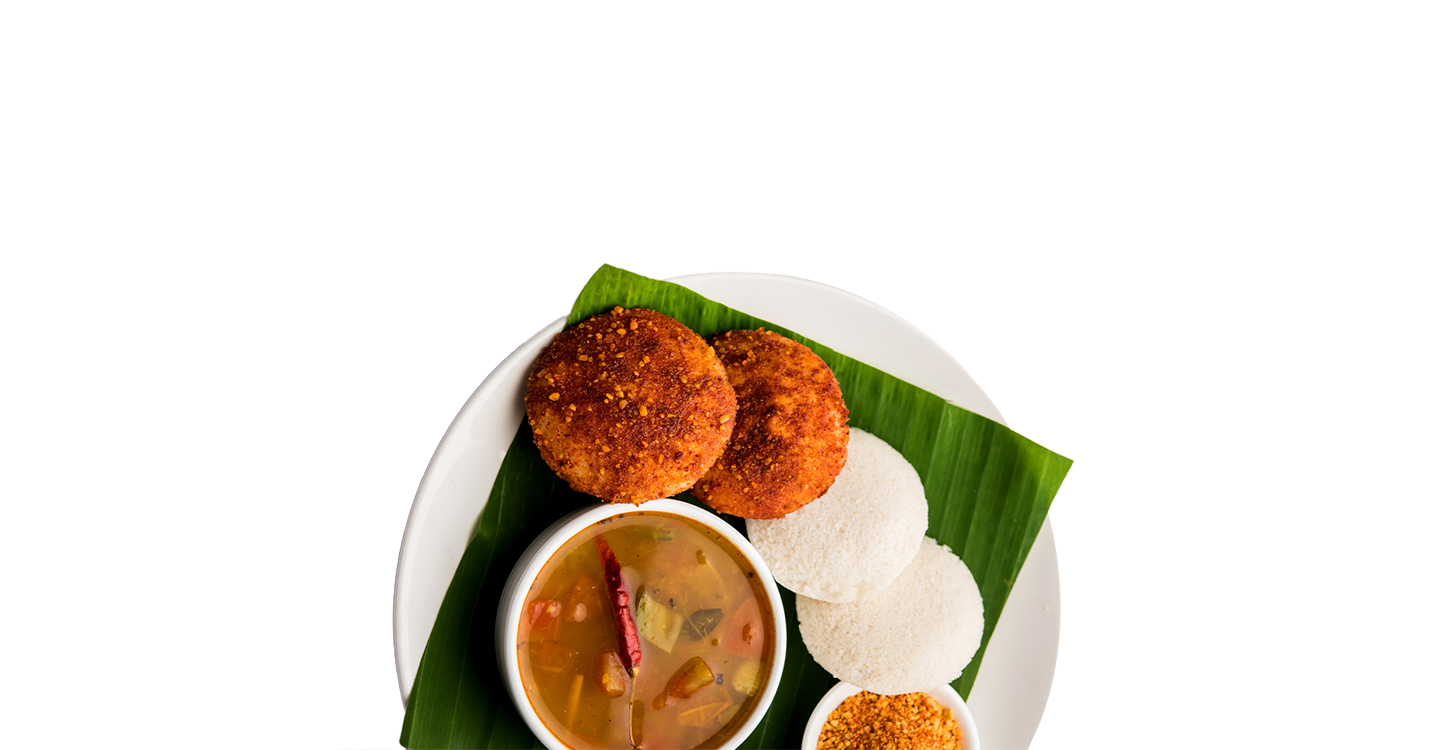
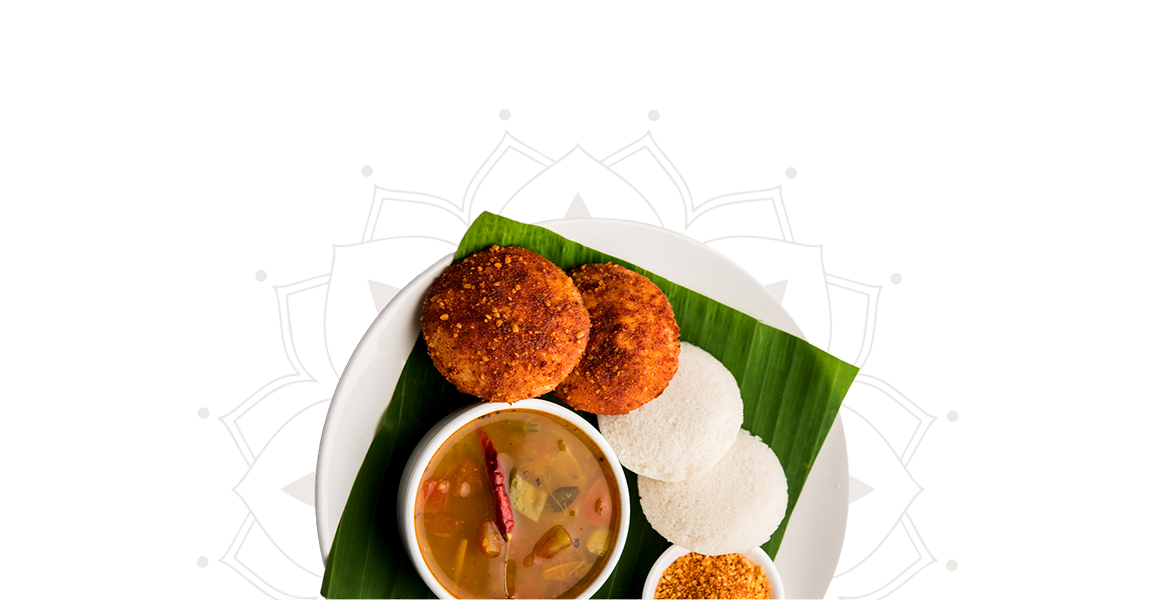
images added

diff --git a/src/pages/Home.jsx b/src/pages/Home.jsx
@@ -1,10 +1,10 @@
 import React, { useState, useEffect } from 'react';
 import { Link } from 'react-router-dom';
-import { ChevronLeft, ChevronRight, UtensilsCrossed, Coffee, Star, Heart, Flame, Sprout } from 'lucide-react';
+import { ChevronLeft, ChevronRight, Heart, Flame } from 'lucide-react';
 import { HERO_SLIDES, PROMO_TILES } from '../data/mock';
-import banner4 from '../assets/banners/BANNER4.jpg';
-import banner5 from '../assets/banners/BANNER5.jpg';
-import banner6 from '../assets/banners/BANNER6.jpg';
+import banner4 from '../assets/home/menu1.jpeg';
+import banner5 from '../assets/home/secondary-banner.jpeg';
+import banner6 from '../assets/home/menu2.jpeg';
 import hb1 from '../assets/home/banner1.png';
 import hb2 from '../assets/home/banner2.png';
 import hb3 from '../assets/home/banner3.png';
@@ -80,9 +80,7 @@ const Home = () => {
                 />
               </div>
               <div className="absolute inset-x-0 top-6 md:top-8 flex flex-col items-center text-center px-6 z-20">
-                <div className="mb-6 inline-flex items-center gap-2 px-4 py-1.5 rounded-full border border-[#f6e0b0]/30 bg-black/10 backdrop-blur-sm">
-                  <span className="text-white text-[10px] md:text-xs font-display font-bold tracking-[0.3em] uppercase leading-none">✦ Since 1962 ✦</span>
-                </div>
+
                 <h1 className="font-display font-black text-white text-5xl md:text-5xl lg:text-6xl tracking-tighter drop-shadow-2xl uppercase leading-[0.9] italic">
                   {slide.title_start} <br className="md:hidden" />
                   <span className="text-[#f4b700]">{slide.title_highlight}</span> <br className="md:hidden" />
@@ -95,22 +93,24 @@ const Home = () => {
 
               {/* Floating Toppings (Icons) */}
               <div className="absolute inset-0 pointer-events-none overflow-hidden">
-                {/* Yellow Cutlery */}
-                <div className={`absolute top-[15%] left-[10%] transition-all duration-1000 ${idx === current ? 'opacity-40 scale-100' : 'opacity-0 scale-50'}`}>
-                  <div className="w-12 h-12 md:w-20 md:h-20 rounded-full bg-[#f4b700] flex items-center justify-center text-[#1a5e3a] shadow-2xl animate-bounce" style={{ animationDuration: '4s' }}>
-                    <UtensilsCrossed size={36} className="w-6 h-6 md:w-10 md:h-10" />
+                {/* Yummy Meal with Love */}
+                <div className={`absolute top-[15%] left-[10%] transition-all duration-1000 ${idx === current ? 'opacity-50 scale-100' : 'opacity-0 scale-50'}`}>
+                  <div className="w-16 h-16 md:w-24 md:h-24 rounded-full bg-[#f4b700] flex flex-col items-center justify-center text-[#1a5e3a] shadow-2xl animate-bounce" style={{ animationDuration: '4s' }}>
+                    <span className="text-3xl md:text-5xl mb-[-10px]">🥘</span>
+                    <Heart size={20} fill="currentColor" className="text-red-500 animate-pulse" />
                   </div>
                 </div>
-                {/* White Coffee */}
-                <div className={`absolute bottom-[25%] right-[10%] transition-all duration-1000 delay-300 ${idx === current ? 'opacity-40 scale-100' : 'opacity-0 scale-50'}`}>
-                  <div className="w-14 h-14 md:w-24 md:h-24 rounded-full bg-white flex items-center justify-center text-[#1a5e3a] shadow-2xl animate-pulse" style={{ animationDuration: '6s' }}>
-                    <Coffee size={44} className="w-8 h-8 md:w-12 md:h-12" />
+                {/* Yummy Curry with Sharing */}
+                <div className={`absolute bottom-[25%] right-[10%] transition-all duration-1000 delay-300 ${idx === current ? 'opacity-50 scale-100' : 'opacity-0 scale-50'}`}>
+                  <div className="w-16 h-16 md:w-24 md:h-24 rounded-full bg-white flex flex-col items-center justify-center text-[#1a5e3a] shadow-2xl animate-pulse" style={{ animationDuration: '6s' }}>
+                    <span className="text-3xl md:text-5xl">🍛</span>
+                    <span className="text-sm md:text-lg font-bold">Sharing</span>
                   </div>
                 </div>
-                {/* Gold Star */}
-                <div className={`absolute top-[40%] right-[15%] transition-all duration-1000 delay-500 ${idx === current ? 'opacity-30 scale-100 rotate-12' : 'opacity-10 scale-0'}`}>
-                  <div className="w-10 h-10 md:w-16 md:h-16 rounded-full bg-[#f4b700] flex items-center justify-center text-[#1a5e3a] shadow-xl animate-spin" style={{ animationDuration: '10s' }}>
-                    <Star size={30} className="w-5 h-5 md:w-8 md:h-8" fill="currentColor" />
+                {/* Caring Hearts */}
+                <div className={`absolute top-[40%] right-[15%] transition-all duration-1000 delay-500 ${idx === current ? 'opacity-40 scale-100 rotate-12' : 'opacity-10 scale-0'}`}>
+                  <div className="w-12 h-12 md:w-20 md:h-20 rounded-full bg-[#f4b700] flex items-center justify-center text-[#1a5e3a] shadow-xl animate-spin" style={{ animationDuration: '10s' }}>
+                    <span className="text-2xl md:text-4xl">🫂</span>
                   </div>
                 </div>
                 {/* White Heart */}
@@ -123,10 +123,7 @@ const Home = () => {
                 <div className={`absolute top-[20%] right-[30%] transition-all duration-1000 delay-200 ${idx === current ? 'opacity-20 scale-100' : 'opacity-10 scale-0'}`}>
                   <Flame size={40} className="text-[#f4b700]" fill="currentColor" />
                 </div>
-                {/* Fresh Sprout */}
-                <div className={`absolute bottom-[15%] left-[35%] transition-all duration-1000 delay-400 ${idx === current ? 'opacity-20 scale-100' : 'opacity-10 scale-0'}`}>
-                  <Sprout size={40} className="text-[#f6e0b0]" />
-                </div>
+
               </div>
             </div>
           ))}

diff --git a/src/data/mock.js b/src/data/mock.js
@@ -24,6 +24,17 @@ import f19 from '../assets/images/food19.jpeg';
 import f20 from '../assets/images/food20.jpeg';
 import f21 from '../assets/images/food21.jpeg';
 
+import d1 from '../assets/menu/plain-dosa.jpg';
+import d2 from '../assets/menu/masal-dosa.jpg';
+import d3 from '../assets/menu/mysore-masal-dosa.jpg';
+import d4 from '../assets/menu/podi-dosa.jpg';
+import d5 from '../assets/menu/onion-dosa.jpg';
+
+
+import authenticDosa from "../assets/home/authentic-dosa.jpeg";
+import bookCatering from "../assets/home/catering.jpeg";
+import filterCoffee from "../assets/home/filter-coffee.jpeg";
+
 export const NAV_LEFT = [
   { name: 'HOME', path: '/' },
   { name: 'MENU', path: '/menu' },
@@ -107,49 +118,49 @@ export const DOSA_UTHAPAM = [
     id: 'plain-dosa',
     name: 'PLAIN DOSA',
     description: 'Thin crispy rice and lentil crepe.',
-    image: f1,
+    image: d1,
   },
   {
     id: 'masal-dosa',
     name: 'MASAL DOSA',
     description: 'Dosa stuffed with spiced potato masala.',
-    image: f19,
+    image: d2,
   },
   {
     id: 'mysore-masal',
     name: 'MYSORE MASAL DOSA',
     description: 'Dosa with spicy Mysore chutney and potato filling.',
-    image: f20,
+    image: d3,
   },
   {
     id: 'podi-dosa',
     name: 'PODI DOSA',
     description: 'Dosa sprinkled with spicy lentil powder.',
-    image: f1,
+    image: d4,
   },
   {
     id: 'onion-dosa',
     name: 'ONION DOSA',
     description: 'Dosa topped with finely chopped onions.',
-    image: f1,
+    image: d5,
   },
   {
     id: 'panner-dosa',
     name: 'PANNER DOSA',
     description: 'Dosa stuffed with spiced paneer.',
-    image: f1,
+    image: d1,
   },
   {
     id: 'mushroom-masal',
     name: 'MUSHROOM MASAL DOSA',
     description: 'Dosa with spiced mushroom filling.',
-    image: f1,
+    image: d1,
   },
   {
     id: 'garlic-chutney',
     name: 'GARLIC CHUTNY DOSA',
     description: 'Dosa spread with spicy garlic chutney.',
-    image: f1,
+    image: d1,
   },
   {
     id: 'plain-uthapam',
@@ -298,19 +309,19 @@ export const INSTAGRAM_FEED = [
 
 export const PROMO_TILES = [
   {
-    image: f19,
+    image: authenticDosa,
     title: 'AUTHENTIC DOSAS',
     cta: 'CHECK OUT THE MENU',
     link: '/menu',
   },
   {
-    image: f20,
+    image: bookCatering,
     title: 'BOOK CATERING',
     cta: 'BRING THE PARTY',
     link: '/catering',
   },
   {
-    image: f21,
+    image: filterCoffee,
     title: 'TRY OUR FILTER COFFEE',
     cta: 'VIEW MENU',
     link: '/menu',

diff --git a/src/pages/Menu.jsx b/src/pages/Menu.jsx
@@ -2,11 +2,16 @@ import React, { useRef } from 'react';
 import MenuItemGrid from '../components/MenuItemGrid';
 import { IDLY_VADA, DOSA_UTHAPAM, SNACKS_TIFFIN, SWEETS_DRINKS } from '../data/mock';
 
+import dosaImg from "../assets/menucard/dosa.jpg"
+import idlyImg from "../assets/menucard/idly.jpg"
+import snacksImg from "../assets/menucard/snacks.jpg"
+import sweetsImg from "../assets/menucard/sweets.jpg"
+
 const categories = [
-  { id: 'dosas', name: 'DOSA & UTHAPAM', label: 'Dosa & Uthapam', items: DOSA_UTHAPAM, image: DOSA_UTHAPAM[0].image },
-  { id: 'idly', name: 'IDLY & VADA', label: 'Idly & Vada', items: IDLY_VADA, image: IDLY_VADA[0].image },
-  { id: 'snacks', name: 'SNACKS & TIFFIN', label: 'Snacks & Tiffin', items: SNACKS_TIFFIN, image: SNACKS_TIFFIN[0].image },
-  { id: 'sweets', name: 'SWEETS & DRINKS', label: 'Sweets & Drinks', items: SWEETS_DRINKS, image: SWEETS_DRINKS[0].image },
+  { id: 'dosas', name: 'DOSA & UTHAPAM', label: 'Dosa & Uthapam', items: DOSA_UTHAPAM, image: dosaImg },
+  { id: 'idly', name: 'IDLY & VADA', label: 'Idly & Vada', items: IDLY_VADA, image: idlyImg },
+  { id: 'snacks', name: 'SNACKS & TIFFIN', label: 'Snacks & Tiffin', items: SNACKS_TIFFIN, image: snacksImg },
+  { id: 'sweets', name: 'SWEETS & DRINKS', label: 'Sweets & Drinks', items: SWEETS_DRINKS, image: sweetsImg },
 ];
 
 const Card = ({ title, image, count, onClick }) => (

diff --git a/src/components/Header.jsx b/src/components/Header.jsx
@@ -79,7 +79,7 @@ const Header = () => {
 
               <div className="mt-auto pb-10 px-4">
                 <p className="text-[#1a5e3a]/40 font-display font-bold tracking-widest text-xs uppercase">
-                  © Madras Cafe since 1962
+                  © Madras Cafe
                 </p>
               </div>
             </div>